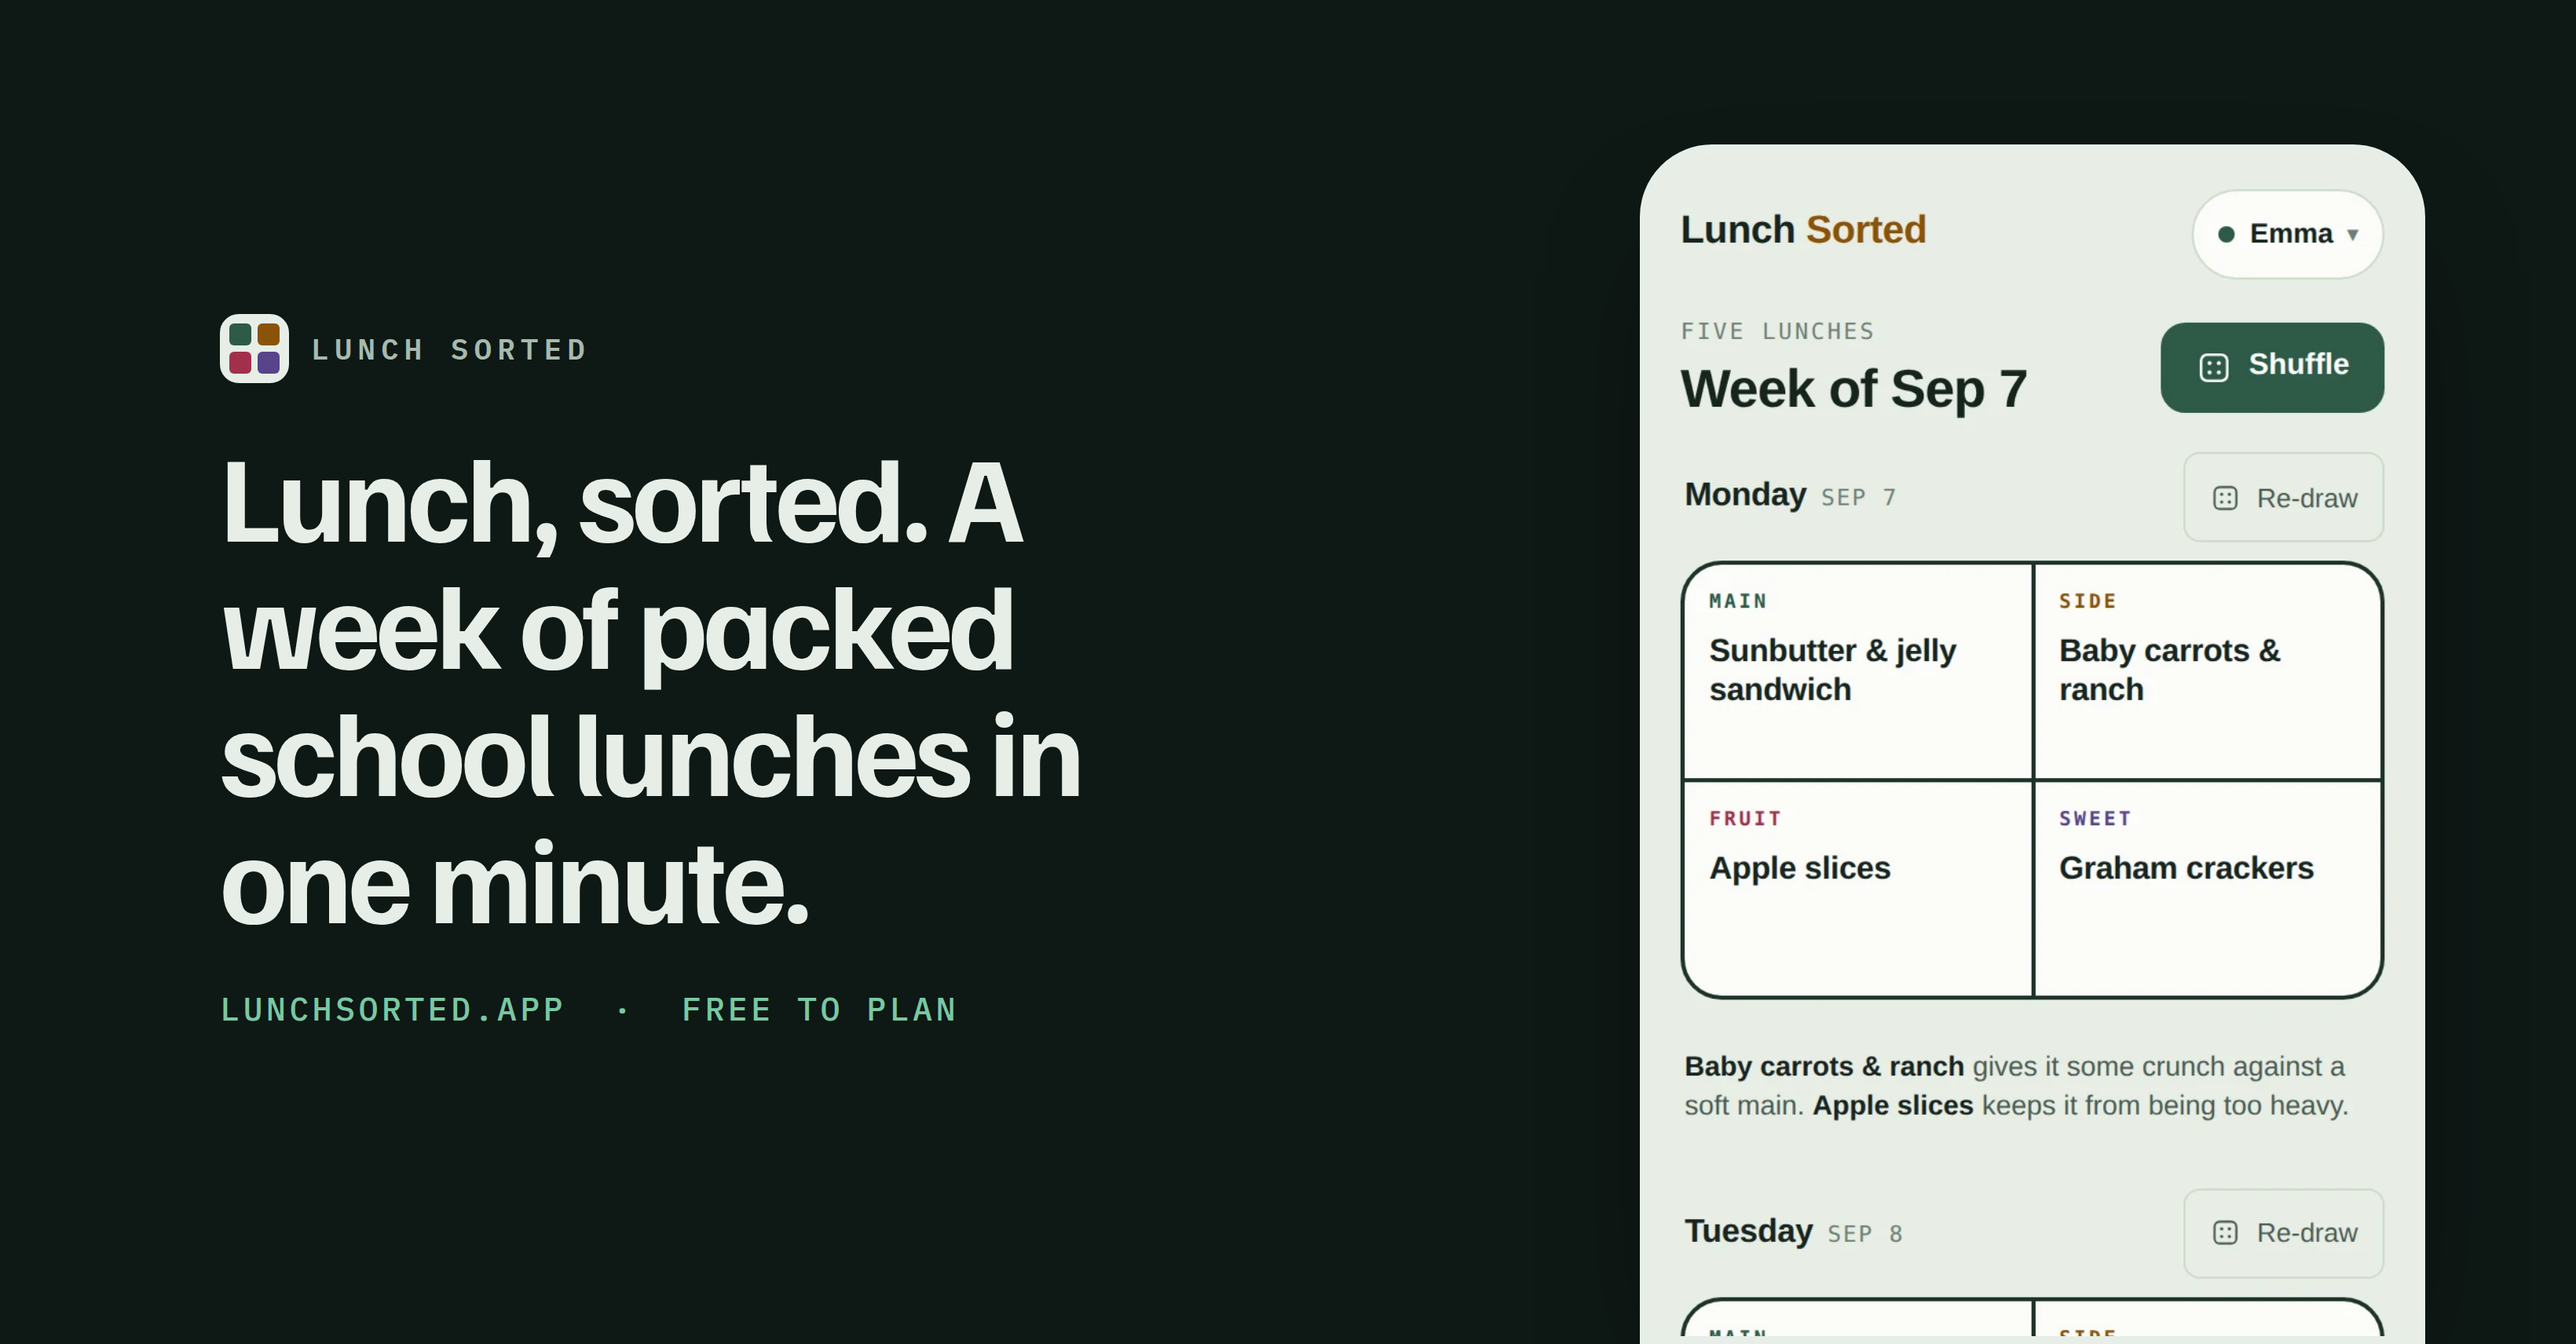
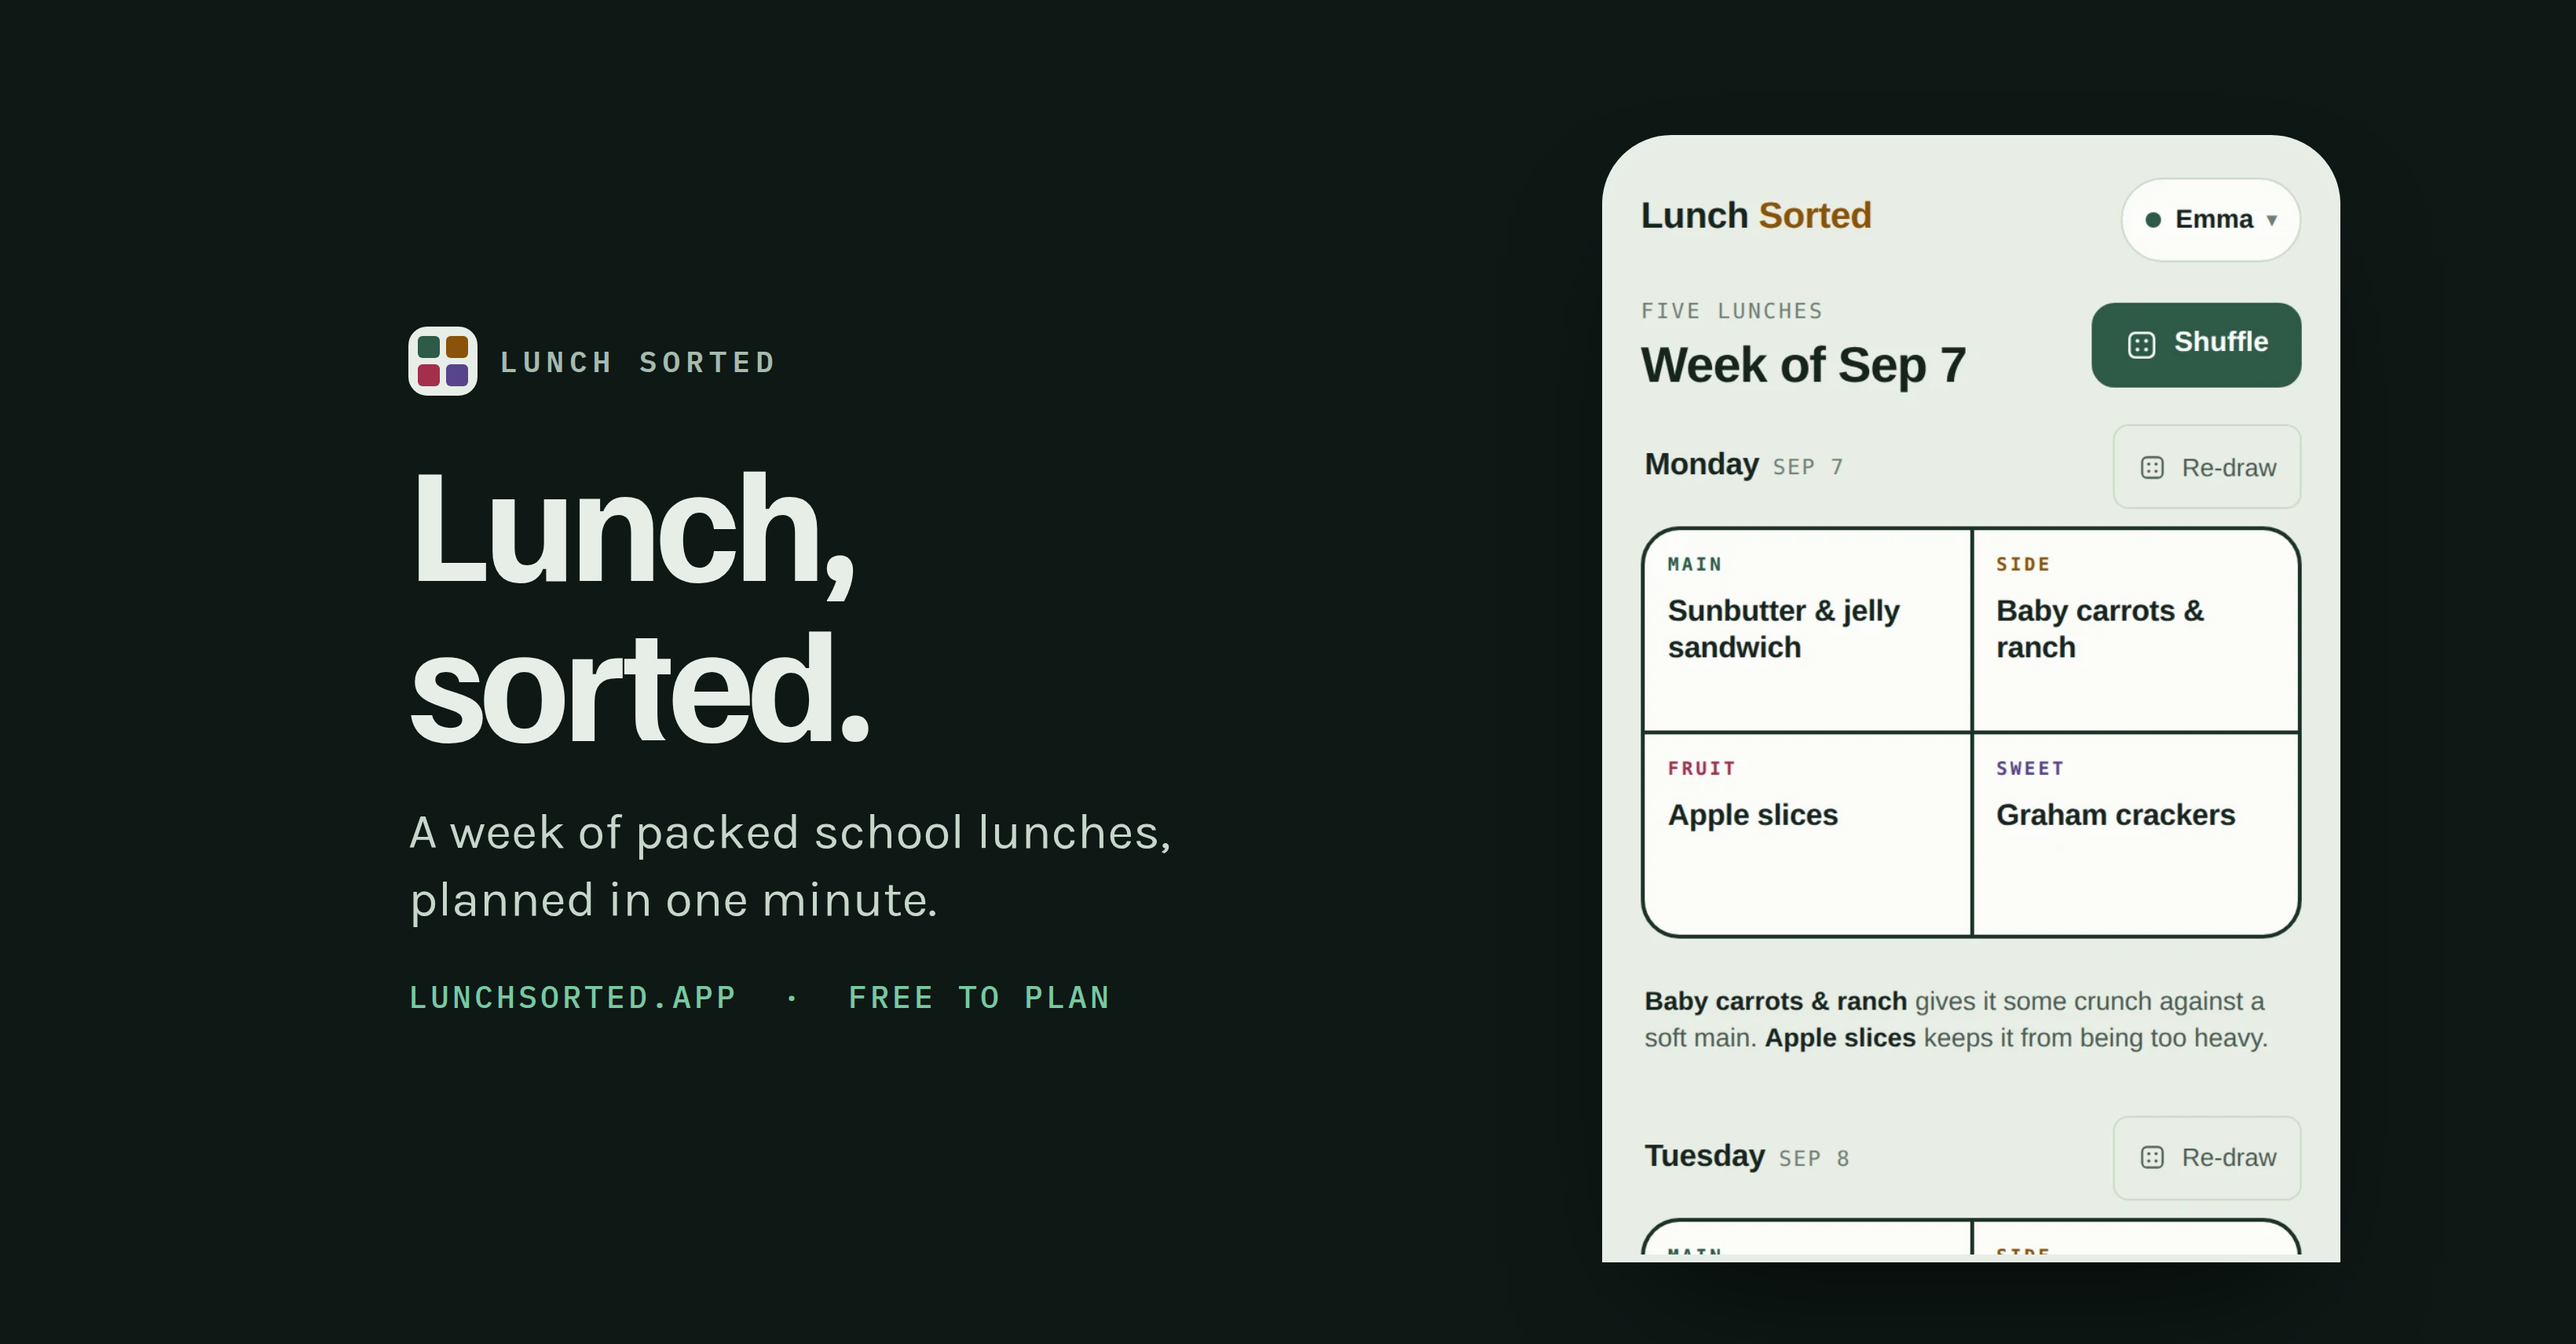
The cover survives the crop Facebook actually applies
Liz was right that it did not fit side to side on a phone. I had the crop
wrong: Facebook shows a cover in three different shapes and center-crops
the same upload to each, and a phone takes up to 10% off each side, not
the sliver I assumed. The old 140px margin sat inside that, so the
headline lost its L.

Rebuilt against measurements rather than a guess: the headline is now two
words instead of four lines, every word sits inside a 260px side margin
and a 150px one top and bottom, and the URL line cannot wrap. Checked at
2.63:1, 1.78:1 and 1.55:1 - nothing is lost in any of them. The three
shapes and what each takes are written into the launch kit so the next
person does not have to rediscover it.

Claude-Session: https://claude.ai/code/session_01Ah3dWQ8LayQQKQcfFrnkh3

diff --git a/docs/marketing/instagram-launch-kit.md b/docs/marketing/instagram-launch-kit.md
@@ -92,10 +92,22 @@ launch morning.
   places is most of what a brand is at this stage.
 - **Cover:** `facebook-cover.png` (1640×856), rendered from the design canvas.
   Dark ground, the headline on the left, the planned week bleeding off the right
-  edge. Facebook crops the top and bottom on a desktop and a sliver off each
-  side on a phone, so the text keeps a clear band above and below and starts
-  well in from the left; the phone is the one thing allowed to run off the edge,
-  because losing a slice of it costs nothing.
+  edge.
+
+  Facebook shows a cover in three different shapes and center-crops the same
+  upload to each one, which is what catches people out — a design that looks
+  right in the uploader loses its left edge on a phone. Measured:
+
+  | Where | Shape | What it takes |
+  |---|---|---|
+  | Desktop | 820×312 (2.63:1) | 27% off the top and bottom |
+  | Phone | 640×360 (1.78:1) | 7% off each side |
+  | Phone, tighter | ~1.55:1 | up to 10% off each side |
+
+  So every word sits inside a **260px side margin and a 150px one top and
+  bottom**, which survives all three. The phone is the only thing allowed past
+  that line, because losing a slice of it costs nothing. Re-crop and check all
+  three before replacing this file.
 - **Action button:** *Use app*, pointing at lunchsorted.app.
 - **About + email:** the bio text, and hello@lunchsorted.app.
 
